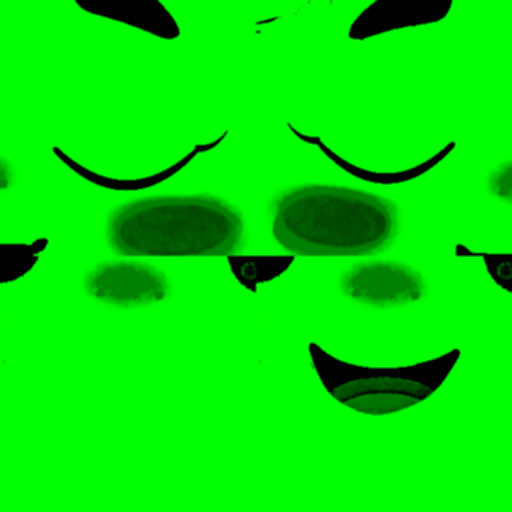
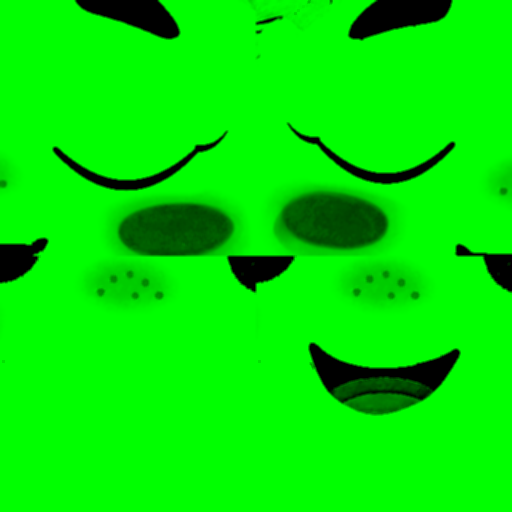
Recolour the whole figure when customizing
The cap mask comes from the mesh's shape (cap shell and gills), so dots, rims and gills are
cap; the shader moves only the cap's red share, keeping white dots and grey gills. Skin takes
seams and blush rims without light rings; the bag keeps its linen.

Claude-Session: https://claude.ai/code/session_01R8JHqmvJq6hiKtCJ8pJGXt

diff --git a/Tools/figure/FigureMask.cs b/Tools/figure/FigureMask.cs
@@ -8,12 +8,12 @@
 using System;
 using System.Collections.Generic;
 using System.IO;
+using System.Linq;
 using KotH.Tools;
 
 const int N = 1024;                  // the masks are smooth: half the body texture's size
 const int Grow = 4;                  // texels the masks reach past the UV islands, for the mips
-const float Brim = 0.12f;            // glTF height of the cap's rim: red below it is not cap
-const float CapTriangle = 0.4f;      // share of red texels that makes a triangle part of the cap
+const float GillsFrom = 0.3f;        // islands facing down above this are gills (lower: the jaw)
 const float Boots = -0.6f;           // glTF height below which brown is the boots (coloured as the gloves)
 
 string root = Path.GetFullPath(Path.Combine(Here(), "../.."));
@@ -44,26 +44,20 @@ for (int y = 0; y < N; y++)
     for (int x = 0; x < N; x++)
         cls[y * N + x] = Classes(body, x, y, N);
 
-// Pass 1: each triangle's share of red texels. Pass 2: per texel the highest triangle's
-// height and normal, and whether any covering triangle is cap.
+// The cap by shape, not colour (its white dots and pink rims are cap too): per texel the most
+// cap-like covering triangle. Also each texel's highest triangle's height and normal.
+var axis = Axis();
 int triangles = idx.Length / 3;
-var capShare = new float[triangles];
 var height = new float[N * N];
 var normalY = new float[N * N];
 var capArea = new float[N * N];
 Array.Fill(height, float.NaN);
 for (int t = 0; t < triangles; t++)
 {
-    int red = 0, all = 0;
-    Raster(t, (x, y) => { all++; if (cls[y * N + x].red > 0.5f) red++; });
-    capShare[t] = all > 0 ? red / (float)all : 0f;
-}
-for (int t = 0; t < triangles; t++)
-{
     int a = idx[t * 3], b = idx[t * 3 + 1], c = idx[t * 3 + 2];
     float h = (pos[a * 3 + 1] + pos[b * 3 + 1] + pos[c * 3 + 1]) / 3f;
     float ny = NormalY(a, b, c);
-    float cap = Smooth(CapTriangle - 0.15f, CapTriangle + 0.15f, capShare[t]) * Smooth(Brim - 0.04f, Brim + 0.04f, h);
+    float cap = CapLike(h, Radius(a, b, c), ny, Radial(a, b, c));
     Raster(t, (x, y) =>
     {
         int i = y * N + x;
@@ -84,9 +78,8 @@ int[] label = Islands(island, out int islands);
 // no guide: the forehead tucks under the cap as steeply as the gills curve).
 float[] islandNy = Means(label, islands, normalY), islandH = Means(label, islands, height);
 
-// The masks: cap = cap triangles above the brim (see the dots below), not on islands that are
-// mostly skin (the face: brows, mouth); skin = pale outside cap triangles and gill islands
-// (the dots stay white); leaves = green; boots (A) = brown below the knee, as the gloves.
+// The masks: cap = the cap's whole area (FigureTint moves only its red share); skin = pale outside
+// the cap and the gill islands; leaves = green outside the cap; boots (A) = brown below the knee.
 var mask = new float[4][];
 for (int k = 0; k < 4; k++)
     mask[k] = new float[N * N];
@@ -94,29 +87,31 @@ for (int i = 0; i < N * N; i++)
 {
     if (!island[i])
         continue;
-    mask[0][i] = cls[i].red * capArea[i];
-    bool gill = islandNy[label[i]] < -0.4f && islandH[label[i]] > Brim;
+    mask[0][i] = capArea[i];
+    bool gill = islandNy[label[i]] < -0.4f && islandH[label[i]] > GillsFrom;
     mask[1][i] = gill ? 0f : cls[i].pale * (1f - capArea[i]);
-    mask[2][i] = cls[i].green;
+    mask[2][i] = cls[i].green * (1f - capArea[i]);
     mask[3][i] = Brown(body, i % N, i / N, N) * Smooth(Boots + 0.05f, Boots - 0.05f, height[i]);
 }
-var dot = new float[N * N];
-foreach (int i in Dots(mask[1], Widen(mask[0], 3), island))
-{
-    mask[1][i] = 0f;
-    dot[i] = 1f;
-}
-// The whole cap is recoloured but the dots' white centres: their painted shade turns with it.
-float[] nearDot = Widen(dot, 3);
-for (int i = 0; i < N * N; i++)
-    if (island[i])
-        mask[0][i] = MathF.Max(capArea[i], nearDot[i] * Smooth(Brim - 0.04f, Brim + 0.04f, height[i])) * (1f - cls[i].pale);
-float[] islandSkin = Means(label, islands, mask[1]);
-for (int i = 0; i < N * N; i++)
-    if (island[i] && islandSkin[label[i]] > 0.5f)
-        mask[0][i] = 0f;
+FillShades(mask, island);
+// Softened edges, but a blur only adds weight: a skin texel beside a brow keeps all of it (else the
+// painted light skin shows as a rim round every feature on dark skin); overlaps share to 1.
 for (int k = 0; k < 4; k++)
-    mask[k] = Spread(Blur(mask[k], island), island);
+{
+    float[] soft = Blur(mask[k], island);
+    for (int i = 0; i < N * N; i++)
+        soft[i] = MathF.Max(soft[i], mask[k][i]);
+    mask[k] = soft;
+}
+for (int i = 0; i < N * N; i++)
+{
+    float sum = mask[0][i] + mask[1][i] + mask[2][i] + mask[3][i];
+    if (sum > 1f)
+        for (int k = 0; k < 4; k++)
+            mask[k][i] /= sum;
+}
+for (int k = 0; k < 4; k++)
+    mask[k] = Spread(mask[k], island);
 
 // The lids: skin wherever pale (blush included), the rest (lashes, eyes, mouth) stays.
 int L = lid.Width;
@@ -125,8 +120,8 @@ for (int i = 0; i < L * L; i++)
     lidSkin[i] = Classes(lid, i % L, i / L, L).pale;
 lidSkin = Blur(lidSkin, null, L);
 
-// References: each region's mean colour where its mask is nearly whole.
-float[] capRef = Mean(body, mask[0], N), skinRef = Mean(body, mask[1], N), leafRef = Mean(body, mask[2], N);
+// References: each region's mean colour where its mask is nearly whole (the cap's: its red).
+float[] capRef = Mean(body, Product(mask[0], cls.Select(c => c.red).ToArray()), N), skinRef = Mean(body, mask[1], N), leafRef = Mean(body, mask[2], N);
 float[] gloveRef = Mean(glove, null, glove.Width);
 Png spore = Png.Read(Path.Combine(root, "KotH.Game/Resources/Effects/Spore.png"));
 Console.WriteLine($"cap    {Hex(capRef)}");
@@ -163,10 +158,13 @@ static (float red, float pale, float green) Classes(Png png, int x, int y, int s
     float max = MathF.Max(r, MathF.Max(g, b)), min = MathF.Min(r, MathF.Min(g, b));
     float s = max > 1e-4f ? (max - min) / max : 0f;
     float redness = Smooth(0.45f, 0.6f, s) * Smooth(0.15f, 0.25f, r) * Smooth(0.45f, 0.3f, MathF.Max(g, b) / MathF.Max(r, 1e-4f));
-    float pale = Smooth(0.42f, 0.28f, s) * Smooth(0.5f, 0.65f, max);
-    // The blush: light pink, half moved with the skin, so it stays a blush on any colour.
+    float pale = Smooth(0.33f, 0.25f, s) * Smooth(0.5f, 0.65f, max);
+    // The blush: light pink, moved with the skin less the more pink (half at its heart), so it stays
+    // a blush on any colour and its soft rim fades into the skin without a light ring.
     float gr = g / MathF.Max(r, 1e-4f);
-    pale = MathF.Max(pale, 0.5f * Smooth(0.6f, 0.75f, r) * Smooth(0.45f, 0.55f, gr) * Smooth(0.9f, 0.8f, gr) * Smooth(0.6f, 0.5f, s));
+    float orange = (g - b) / MathF.Max(max - min, 1e-4f);   // 0 pink (the blush), 0.4 the bag's peach linen
+    pale = MathF.Max(pale, (1f - 0.5f * Smooth(0.25f, 0.5f, s)) * Smooth(0.6f, 0.75f, r) * Smooth(0.45f, 0.55f, gr)
+                           * Smooth(0.6f, 0.5f, s) * Smooth(0.36f, 0.3f, orange));
     float greenness = g > r * 1.15f && g > b * 1.2f ? Smooth(0.15f, 0.3f, s) : 0f;
     return (redness, pale, greenness);
 }
@@ -180,6 +178,87 @@ static float Brown(Png png, int x, int y, int size)
     float s = max > 1e-4f ? (max - min) / max : 0f;
     float gr = g / MathF.Max(r, 1e-4f);
     return r >= g && g >= b ? Smooth(0.25f, 0.35f, s) * Smooth(0.3f, 0.45f, gr) * Smooth(0.85f, 0.75f, gr) * Smooth(0.75f, 0.6f, max) : 0f;
+}
+
+// Shaded seams (greyish texels between skin and leaves, under the chin) belong to no region and kept
+// their colour: the rest of their weight goes to the nearest skin or leaf texel within 8 texels.
+// Only unsaturated ones: the tint keeps dark texels dark, so lines and pupils stay black.
+void FillShades(float[][] m, bool[] inside)
+{
+    var near = new int[N * N];
+    Array.Fill(near, -1);
+    var front = new List<int>();
+    for (int i = 0; i < N * N; i++)
+        if (inside[i] && m[0][i] < 0.5f && (m[1][i] >= 0.5f || m[2][i] >= 0.5f))
+        { near[i] = m[1][i] >= m[2][i] ? 1 : 2; front.Add(i); }
+    for (int step = 0; step < 8 && front.Count > 0; step++)
+    {
+        var next = new List<int>();
+        foreach (int i in front)
+            foreach (int j in (ReadOnlySpan<int>)[i - 1, i + 1, i - N, i + N])
+                if (j >= 0 && j < N * N && Math.Abs(j % N - i % N) <= 1 && inside[j] && near[j] < 0)
+                { near[j] = near[i]; next.Add(j); }
+        front = next;
+    }
+    for (int i = 0; i < N * N; i++)
+    {
+        float rest = 1f - m[0][i] - m[1][i] - m[2][i] - m[3][i];
+        if (near[i] > 0 && rest > 0f && m[0][i] < 0.5f && m[3][i] < 0.5f && Saturation(body, i % N, i / N, N) < 0.25f)
+            m[near[i]][i] += rest;
+    }
+}
+
+static float Saturation(Png png, int x, int y, int size)
+{
+    int i = (y * png.Height / size * png.Width + x * png.Width / size) * png.Channels;
+    float r = png.Pixels[i], g = png.Pixels[i + 1], b = png.Pixels[i + 2];
+    float max = MathF.Max(r, MathF.Max(g, b)), min = MathF.Min(r, MathF.Min(g, b));
+    return max > 0.5f ? (max - min) / max : 0f;
+}
+
+// The cap's outer shell and rim beyond the face's reach (r 0.25), the gills facing down, in or
+// sideways (the face faces out), everything over the head; glTF metres, radius from the head's axis.
+static float CapLike(float h, float r, float ny, float radial) =>
+    MathF.Max(MathF.Max(Smooth(0.31f, 0.35f, r) * Smooth(0.16f, 0.2f, h),
+                        Smooth(0.23f, 0.27f, r) * Smooth(-0.2f, -0.4f, ny) * Smooth(0.28f, 0.32f, h)),
+              MathF.Max(MathF.Max(Smooth(0.18f, 0.21f, r) * Smooth(-0.2f, -0.4f, radial) * Smooth(0.28f, 0.3f, h),
+                                  Smooth(0.24f, 0.27f, r) * Smooth(0.6f, 0.4f, radial) * Smooth(0.28f, 0.3f, h)),
+                        Smooth(0.53f, 0.57f, h)));
+
+// The head's vertical axis: the mean x, z of the vertices above the shoulders.
+(float x, float z) Axis()
+{
+    float sx = 0f, sz = 0f;
+    int n = 0;
+    for (int v = 0; v < pos.Length / 3; v++)
+        if (pos[v * 3 + 1] > 0.3f)
+        { sx += pos[v * 3]; sz += pos[v * 3 + 2]; n++; }
+    return (sx / n, sz / n);
+}
+
+float Radius(int a, int b, int c)
+{
+    float x = (pos[a * 3] + pos[b * 3] + pos[c * 3]) / 3f - axis.x, z = (pos[a * 3 + 2] + pos[b * 3 + 2] + pos[c * 3 + 2]) / 3f - axis.z;
+    return MathF.Sqrt(x * x + z * z);
+}
+
+// The normal's share pointing away from the head's axis (negative: towards it).
+float Radial(int a, int b, int c)
+{
+    float ux = pos[b * 3] - pos[a * 3], uy = pos[b * 3 + 1] - pos[a * 3 + 1], uz = pos[b * 3 + 2] - pos[a * 3 + 2];
+    float vx = pos[c * 3] - pos[a * 3], vy = pos[c * 3 + 1] - pos[a * 3 + 1], vz = pos[c * 3 + 2] - pos[a * 3 + 2];
+    float nx = uy * vz - uz * vy, ny = uz * vx - ux * vz, nz = ux * vy - uy * vx;
+    float x = (pos[a * 3] + pos[b * 3] + pos[c * 3]) / 3f - axis.x, z = (pos[a * 3 + 2] + pos[b * 3 + 2] + pos[c * 3 + 2]) / 3f - axis.z;
+    float len = MathF.Sqrt(nx * nx + ny * ny + nz * nz) * MathF.Sqrt(x * x + z * z);
+    return len > 1e-12f ? (nx * x + nz * z) / len : 0f;
+}
+
+static float[] Product(float[] a, float[] b)
+{
+    var o = new float[a.Length];
+    for (int i = 0; i < a.Length; i++)
+        o[i] = a[i] * b[i];
+    return o;
 }
 
 float NormalY(int a, int b, int c)
@@ -233,54 +312,6 @@ static float[] Means(int[] label, int count, float[] v)
     for (int k = 0; k < count; k++)
         mean[k] = (float)(sum[k] / Math.Max(1, n[k]));
     return mean;
-}
-
-// The cap's white dots: pale patches whose rim (inside the islands) is mostly cap.
-static List<int> Dots(float[] pale, float[] cap, bool[] inside)
-{
-    var dots = new List<int>();
-    var seen = new bool[N * N];
-    var patch = new List<int>();
-    var stack = new Stack<int>();
-    for (int start = 0; start < N * N; start++)
-    {
-        if (seen[start] || pale[start] < 0.5f)
-            continue;
-        patch.Clear(); int rim = 0, red = 0;
-        seen[start] = true; stack.Push(start);
-        while (stack.Count > 0)
-        {
-            int i = stack.Pop(); patch.Add(i);
-            foreach (int j in (ReadOnlySpan<int>)[i - 1, i + 1, i - N, i + N])
-            {
-                if (j < 0 || j >= N * N || Math.Abs(j % N - i % N) > 1 || !inside[j] || seen[j])
-                    continue;
-                if (pale[j] >= 0.5f)
-                { seen[j] = true; stack.Push(j); }
-                else
-                { rim++; if (cap[j] > 0.5f) red++; }
-            }
-        }
-        if (red > 0.5f * rim)
-            dots.AddRange(patch);
-    }
-    return dots;
-}
-
-// Max filter over (2r+1)², so a dot's antialiased rim counts as cap.
-static float[] Widen(float[] m, int r)
-{
-    var o = new float[N * N];
-    for (int y = 0; y < N; y++)
-        for (int x = 0; x < N; x++)
-        {
-            float best = 0f;
-            for (int v = Math.Max(0, y - r); v <= Math.Min(N - 1, y + r); v++)
-                for (int u = Math.Max(0, x - r); u <= Math.Min(N - 1, x + r); u++)
-                    best = MathF.Max(best, m[v * N + u]);
-            o[y * N + x] = best;
-        }
-    return o;
 }
 
 // A 3×3 box inside the islands (null: everywhere), so edges between regions soften by a texel.
